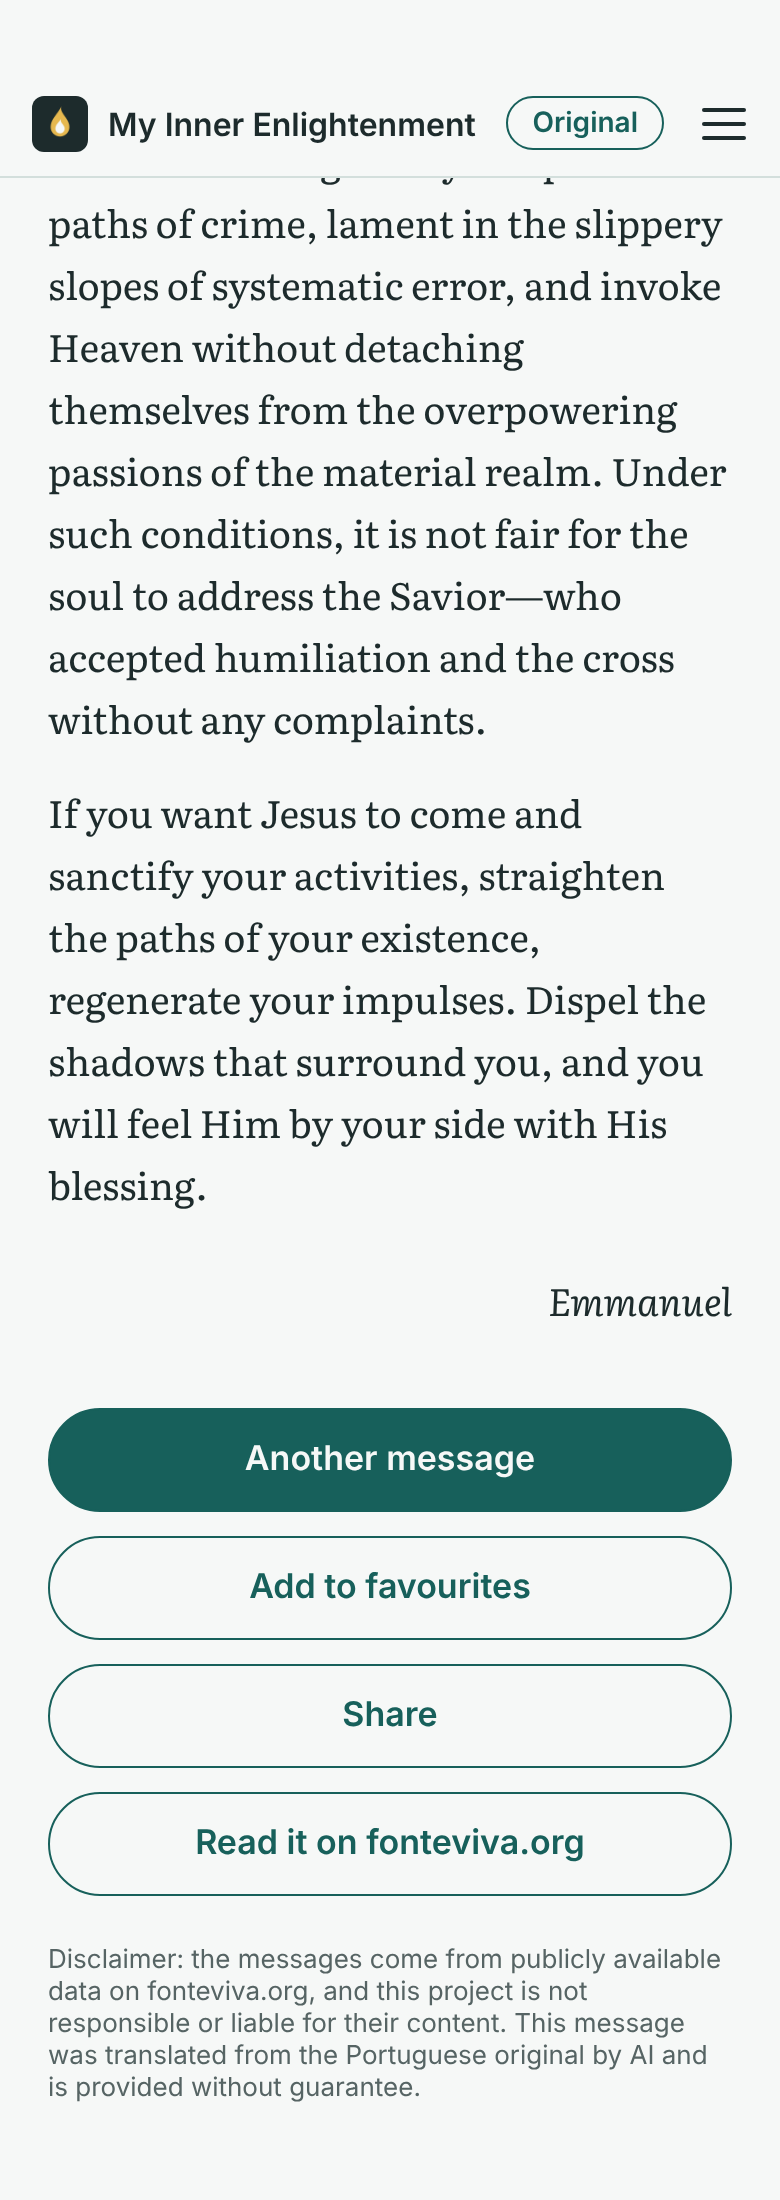
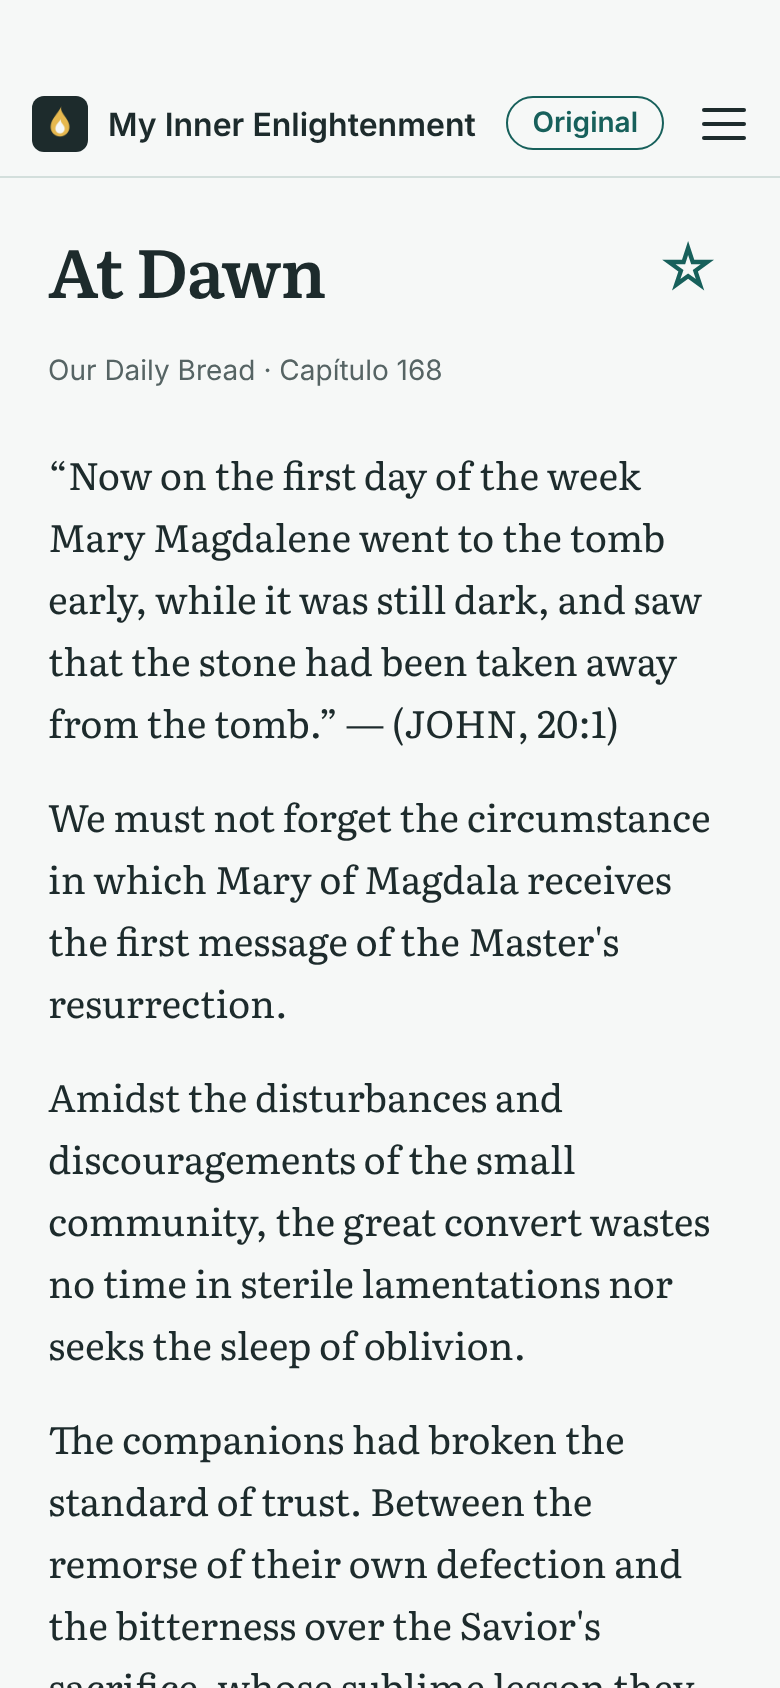
UC-13: star next to the title, message when saving fails, English for missing translations
Claude-Session: https://claude.ai/code/session_01EbxV9QCkA8Vs9QQNX7fYq8

Changed region(s): [[0.0308, 0.0308, 0.9538, 1.0], [0.8615, 0.8009, 0.8923, 0.8318]]

diff --git a/mobile/App.tsx b/mobile/App.tsx
@@ -175,6 +175,7 @@ export default function App() {
   const [indexBook, setIndexBook] = useState<string>(); // UC-20: the book picked on the index
   const [showOriginal, setShowOriginal] = useState(false); // UC-18: the Portuguese text after each paragraph
   const [favourites, setFavourites] = useState<number[]>([]); // UC-13: saved on the phone
+  const [saveFailed, setSaveFailed] = useState(false); // UC-13.9: the favourites couldn't be saved
   const [menuOpen, setMenuOpen] = useState(false);
   const [downloading, setDownloading] = useState<string>(); // UC-12: the language being downloaded
   const [failedDownload, setFailedDownload] = useState<string>(); // UC-12.4: the language that couldn't be
@@ -249,10 +250,16 @@ export default function App() {
   }
 
   // UC-13: add the message to the favourites, or take it out, and save the list.
-  function changeFavourite(id: number) {
+  // UC-13.9: when it can't be saved, the list stays as it was and the reader is told.
+  async function changeFavourite(id: number) {
     const next = toggleFavourite(favourites, id);
-    setFavourites(next);
-    AsyncStorage.setItem('favourites', JSON.stringify(next));
+    try {
+      await AsyncStorage.setItem('favourites', JSON.stringify(next));
+      setFavourites(next);
+      setSaveFailed(false);
+    } catch {
+      setSaveFailed(true);
+    }
   }
 
   // UC-04: show a different, random message.
@@ -352,7 +359,7 @@ export default function App() {
               setScreen('message');
             }}
           >
-            {messageIn(settings.language, id)?.title}
+            {(translations[settings.language]?.find((m) => m.id === id) ?? translations.en.find((m) => m.id === id) ?? messageIn('pt', id))?.title}
           </Text>
         ))}
         <View style={styles.backButton}>
@@ -463,7 +470,18 @@ export default function App() {
       }
     >
       {menuModal}
-      <Text style={styles.title}>{message.title}</Text>
+      <View style={styles.titleRow}>
+        <Text style={[styles.title, styles.titleText]}>{message.title}</Text>
+        <Pressable
+          accessibilityRole="button"
+          accessibilityLabel={favourites.includes(message.id) ? t.removeFavourite : t.favourite}
+          onPress={() => changeFavourite(message.id)}
+          style={styles.star}
+        >
+          <Text style={styles.starText}>{favourites.includes(message.id) ? '★' : '☆'}</Text>
+        </Pressable>
+      </View>
+      {saveFailed && <Text style={styles.warning}>{t.favouriteNotSaved}</Text>}
       {comparing && <Text style={[styles.paragraph, styles.original]}>{original.title}</Text>}
       <Text style={styles.source}>
         {bookNameIn(settings.language, message.book ?? '')} · {message.chapter}
@@ -476,7 +494,6 @@ export default function App() {
       {message.signature && <Text style={styles.signature}>{message.signature}</Text>}
       <View style={styles.actions}>
         <Action title={t.anotherMessage} onPress={showAnother} main />
-        <Action title={favourites.includes(message.id) ? t.removeFavourite : t.favourite} onPress={() => changeFavourite(message.id)} />
         <Action title={t.share} onPress={share} />
         <Action title={t.readOriginal} onPress={() => Linking.openURL(originalLink(message.url, settings.language))} />
       </View>
@@ -495,6 +512,10 @@ const styles = StyleSheet.create({
   appName: { flex: 1, fontSize: 16, fontWeight: '600', color: colors.ink },
   page: { padding: 24, paddingBottom: 48 },
   title: { fontFamily: 'Literata_600SemiBold', fontSize: 34, lineHeight: 42, letterSpacing: -0.5, color: colors.ink, marginBottom: 6 },
+  titleRow: { flexDirection: 'row', alignItems: 'flex-start', gap: 8 },
+  titleText: { flex: 1 },
+  star: { width: 44, height: 44, alignItems: 'center', justifyContent: 'center' },
+  starText: { fontSize: 30, color: colors.spring },
   source: { fontSize: 14, marginTop: 16, color: colors.muted, marginBottom: 28 },
   paragraph: { fontFamily: 'Literata_400Regular', fontSize: 19, lineHeight: 31, color: colors.ink, marginBottom: 16 },
   signature: { fontFamily: 'Literata_400Regular_Italic', fontSize: 19, color: colors.ink, textAlign: 'right', marginTop: 12 },

diff --git a/website/templates/message.html b/website/templates/message.html
@@ -1,11 +1,11 @@
 <nav><a class="another" href="../random/">{{anotherMessage}}</a></nav>
-<h1>{{title}}</h1>
+<div class="title-row"><h1>{{title}}</h1><button type="button" class="favourite" data-id="{{id}}" data-add="{{favourite}}" data-remove="{{removeFavourite}}" aria-label="{{favourite}}" title="{{favourite}}">☆</button></div>
+<p class="favourite-error" role="alert" hidden>{{favouriteNotSaved}}</p>
 {{originalTitle}}
 <p class="meta">{{meta}}</p>
 {{paragraphs}}
 {{signature}}
 {{note}}
-<p><button type="button" class="favourite" data-id="{{id}}" data-add="{{favourite}}" data-remove="{{removeFavourite}}">{{favourite}}</button></p>
 <script>
 // UC-13: the favourites are the ids saved in this browser.
 const button = document.querySelector('.favourite');
@@ -13,12 +13,21 @@ const id = Number(button.dataset.id);
 function favourites() {
   try { return JSON.parse(localStorage.getItem('favourites')) || []; } catch { return []; }
 }
+const error = document.querySelector('.favourite-error');
 function show() {
-  button.textContent = favourites().includes(id) ? button.dataset.remove : button.dataset.add;
+  const isFavourite = favourites().includes(id);
+  const label = isFavourite ? button.dataset.remove : button.dataset.add;
+  button.textContent = isFavourite ? '★' : '☆';
+  button.title = button.ariaLabel = label;
 }
 button.onclick = () => {
   const ids = favourites();
-  try { localStorage.setItem('favourites', JSON.stringify(ids.includes(id) ? ids.filter((i) => i !== id) : [...ids, id])); } catch {}
+  try {
+    localStorage.setItem('favourites', JSON.stringify(ids.includes(id) ? ids.filter((i) => i !== id) : [...ids, id]));
+    error.hidden = true;
+  } catch {
+    error.hidden = false;
+  }
   show();
 };
 show();

diff --git a/scripts/build-site.ts b/scripts/build-site.ts
@@ -32,6 +32,7 @@ type Labels = {
   favourite: string;
   removeFavourite: string;
   noFavourites: string;
+  favouriteNotSaved: string;
   disclaimer: string;
   translationDisclaimer?: string;
 };
@@ -139,7 +140,13 @@ class Website {
   // UC-13: the favourites are kept in the browser (see favourites.html); this page lists them by title.
   favouritesPage(content: Content): string {
     const labels = content.labels;
-    const titles = Object.fromEntries(content.messages.map((m) => [m.id, [m.slug, showWindows1252(m.title)]]));
+    // UC-13.8: a message the language lacks is listed in English, linking to its English page.
+    const english = this.contents.find((c) => c.language === 'en');
+    const missing = english && content !== english ? english.messages.filter((m) => !content.messages.some((own) => own.id === m.id)) : [];
+    const titles = Object.fromEntries([
+      ...content.messages.map((m) => [m.id, [m.slug, showWindows1252(m.title)]]),
+      ...missing.map((m) => [m.id, [`../en/${m.slug}`, showWindows1252(m.title)]]),
+    ]);
     const otherLanguages = this.contents
       .filter((c) => c !== content)
       .map((c) => `<a href="../../${c.language}/favourites/">${this.names[c.language].name}</a>`)
@@ -178,6 +185,7 @@ class Website {
       id: String(message.id),
       favourite: escapeHtml(labels.favourite),
       removeFavourite: escapeHtml(labels.removeFavourite),
+      favouriteNotSaved: escapeHtml(labels.favouriteNotSaved),
       meta,
       title: escapeHtml(message.title),
       originalTitle: original.originalTitle,

diff --git a/specs/ops/steps/browser.steps.ts b/specs/ops/steps/browser.steps.ts
@@ -54,6 +54,28 @@ When('{string} is tapped', async function (this: World, text: string) {
 });
 
 // The menu button at the top right is an icon, found by its label.
+// The favourite star is an icon, found by its label.
+When('the star {string} is tapped', async function (this: World, label: string) {
+  await this.page.getByLabel(label, { exact: true }).click();
+});
+
+Then('the star says {string}', async function (this: World, label: string) {
+  await this.page.getByLabel(label, { exact: true }).waitFor();
+});
+
+When('the browser refuses to save data', async function (this: World) {
+  await this.page.evaluate(() => {
+    Storage.prototype.setItem = () => {
+      throw new Error('storage is full');
+    };
+  });
+});
+
+When('the favourites saved in the browser are {string}', async function (this: World, ids: string) {
+  await this.page.evaluate((saved) => localStorage.setItem('favourites', saved), ids);
+  await this.page.reload();
+});
+
 When('the menu is tapped', async function (this: World) {
   await this.page.getByLabel('Menu').click();
 });

diff --git a/specs/ops/steps/website.steps.ts b/specs/ops/steps/website.steps.ts
@@ -41,6 +41,17 @@ async function addLanguage(world: World, language: string, withLabels: boolean) 
   world.contentFolder = folder;
 }
 
+// UC-13.8: an English message that Spanish lacks, with the title "Extra".
+Given('English has a message that Spanish does not have', async function (this: World) {
+  const folder = await mkdtemp(join(tmpdir(), 'content-'));
+  await cp(this.contentFolder, folder, { recursive: true });
+  const messagesFile = join(folder, 'en', 'messages.json');
+  const content = JSON.parse(readFileSync(messagesFile, 'utf8'));
+  content.messages.push({ ...content.messages[0], id: 2, slug: 'extra', title: 'Extra' });
+  await writeFile(messagesFile, JSON.stringify(content));
+  this.contentFolder = folder;
+});
+
 Given('the content also has the language {string}', async function (this: World, language: string) {
   await addLanguage(this, language, true);
 });

diff --git a/website/style.css b/website/style.css
@@ -144,14 +144,17 @@ footer { margin-top: 4rem; border-top: 1px solid var(--rule); padding-top: 1.5re
   nav .another, .menu-items { transition: none; animation: none; }
 }
 
-/* UC-13: the favourite button, outlined like the app's. */
+/* UC-13: the favourite star next to the message title, and the message when it can't be saved. */
+.title-row { display: flex; align-items: flex-start; gap: 0.5rem; }
+.title-row h1 { flex: 1; }
 .favourite {
-  padding: 0.6rem 1.1rem;
-  border: 1.5px solid var(--spring);
-  border-radius: 999px;
+  margin-top: 3rem;
+  padding: 0 0.4rem;
+  border: 0;
   background: none;
   color: var(--spring);
-  font: inherit;
-  font-weight: 600;
+  font-size: 2rem;
+  line-height: 1.2;
   cursor: pointer;
 }
+.favourite-error { color: #a3261b; }
